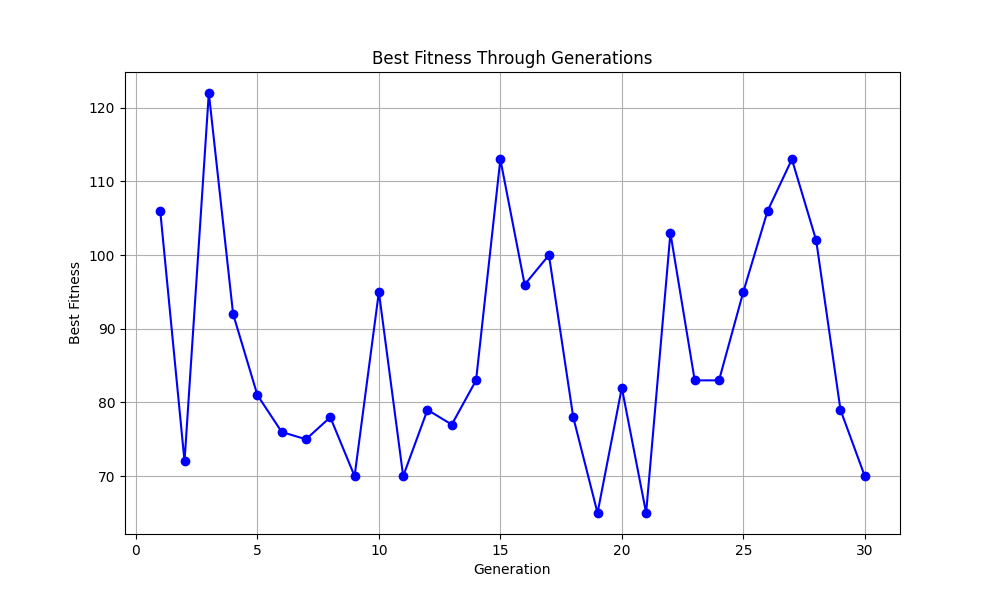
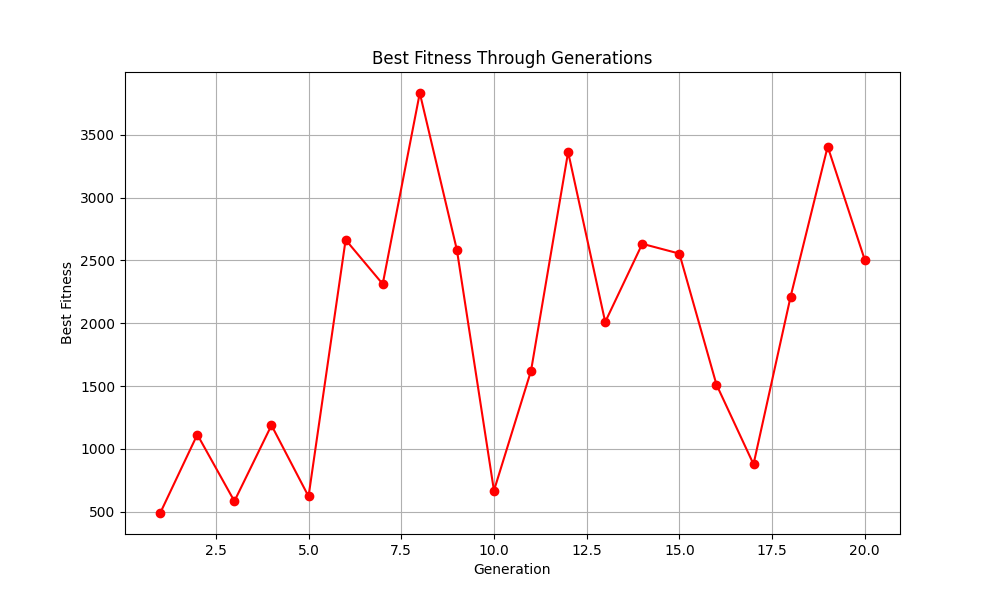
za sad eadi hahaha

diff --git a/game/main.py b/game/main.py
@@ -2,6 +2,7 @@ import random
 from copy import deepcopy
 import numpy as np
 
+
 class Individual:
     def __init__(self, genome_size):
         self.code = [random.uniform(0, 1) for _ in range(genome_size)]
@@ -9,13 +10,14 @@ class Individual:
 
     def calcFit(self, simulate_game):
         self.fitness = simulate_game(self.code)
+        return self.fitness
 
     def __lt__(self, other):
         return self.fitness < other.fitness
 
 
 def selection(population):
-    TOURNAMENT_SIZE = 10
+    TOURNAMENT_SIZE = 5
     best = None
     for _ in range(TOURNAMENT_SIZE):
         candidate = random.choice(population)
@@ -40,7 +42,6 @@ def mutation(individual, mutation_rate=0.1):
             individual.code[i] = max(0, min(1, individual.code[i]))
 
 
-# Dummy funkcija koja simulira igru i vraća rezultat na osnovu težinskih faktora
 def simulate_game(alpha):
     figures = [
         [[1, 0, 0], [1, 1, 1]],
@@ -51,44 +52,77 @@ def simulate_game(alpha):
         [[1, 1, 0], [0, 1, 1]],
         [[1, 1, 1, 1]],
     ]
-
     x = 10
     y = 20
+
     table = [[0 for _ in range(x)] for _ in range(y)]
     SCORE = 0
 
     while True:
-        next_block = random.choice(figures)
-        block_rotations = [next_block]
+        next_block = random.choice(figures)  # Izbor nasumičnog bloka
+        check = 0
 
-        for _ in range(3):
-            block_rotations.append(np.rot90(block_rotations[-1]))  # dodavanje rotacija
-
-        best_fitness = float('inf')
-        best_field = None
-        for rotation in block_rotations:
-            if can_place_next_block(table, rotation):
-                field_variations = find_all_field_variations_for_block(table, rotation)
-                for fld in field_variations:
-                    ft = calculate_fitness(fld, alpha)
-                    if ft < best_fitness:
-                        best_fitness = ft
-                        best_field = fld
-
-        if best_field is None:
+        if can_place_next_block(table, next_block):
+            field_variations1 = find_all_field_variations_for_block(table, next_block)
+            check = 1
+        if can_place_next_block(table, np.rot90(next_block)):
+            field_variations2 = find_all_field_variations_for_block(table, np.rot90(next_block))
+            check = 1
+        if can_place_next_block(table, np.rot90(np.rot90(next_block))):
+            field_variations3 = find_all_field_variations_for_block(table, np.rot90(np.rot90(next_block)))
+            check = 1
+        if can_place_next_block(table, np.rot90(np.rot90(np.rot90(next_block)))):
+            field_variations4 = find_all_field_variations_for_block(table, np.rot90(np.rot90(np.rot90(next_block))))
+            check = 1
+        if check == 0:
             break
+        else:
+            best_fitness = float('inf')
+            best_field = None
+            for fld in field_variations1:
+                ft = calculate_fitness(fld, alpha)
+                if ft < best_fitness:
+                    best_field = fld
+                    best_fitness = ft
+            table = best_field
 
-        table = best_field
+            for fld in field_variations2:
+                ft = calculate_fitness(fld, alpha)
+                if ft < best_fitness:
+                    best_field = fld
+                    best_fitness = ft
+            table = best_field
 
-        # Brisanje popunjenih linija
-        for i in range(y):
-            if all(table[i]):
-                SCORE += 2  # bonus za popunjenu liniju
-                for m in range(i, 0, -1):
-                    table[m] = table[m - 1]
-                table[0] = [0] * x
+            for fld in field_variations3:
+                ft = calculate_fitness(fld, alpha)
+                if ft < best_fitness:
+                    best_field = fld
+                    best_fitness = ft
+            table = best_field
 
+            for fld in field_variations4:
+                ft = calculate_fitness(fld, alpha)
+                if ft < best_fitness:
+                    best_field = fld
+                    best_fitness = ft
+            table = best_field
+
+            for i in range(y):
+                lineFull = True
+                for j in range(x):
+                    if table[i][j] == 0:
+                        lineFull = False
+                if lineFull:
+                    SCORE += 2
+                    for m in range(i, 0, -1):
+                        for k in range(x):
+                            table[m][k] = table[m - 1][k]
+                    for m in range(x):
+                        table[0][m] = 0
+
+    # print(np.array(table), '\n')
     return SCORE
+
 
 def is_valid_placement(field, block, row, col):
     """Check if placing the block at (row, col) is valid."""
@@ -212,71 +246,55 @@ def calculate_fitness(field, alpha):
     fitness = empty_spaces * alpha[0] + max_height * alpha[1] + roughness * alpha[2] - lineFull * alpha[3]
     return fitness
 
-
-from multiprocessing import Pool
 import json
 
-from multiprocessing import Pool
+GENS = 20
+POPULATION_SIZE = 10
+GENOME_SIZE = 4
 
-def fitness_wrapper(individual):
-    """Helper funkcija za izracunavanje fitness vrednosti"""
+population = [Individual(GENOME_SIZE) for _ in range(POPULATION_SIZE)]
+
+for individual in population:
     individual.calcFit(simulate_game)
-    return individual.fitness
 
-def calculate_population_fitness(population):
-    with Pool(processes=4) as pool:
-        fitness_values = pool.map(fitness_wrapper, population)
-    return fitness_values
+results = {
+    "generations": [],
+    "best_fitness": []
+}
 
-# main
-if __name__ == "__main__":
-    results = {
-        "generations": [],
-        "best_fitness": []
-    }
+for generation in range(GENS):
+    population.sort(reverse=True)
+    new_population = []
+    ELITISM_COUNT = 1
+    new_population.extend(population[:ELITISM_COUNT])
 
-    GENS = 20
-    POPULATION_SIZE = 10
-    GENOME_SIZE = 4
+    while len(new_population) < POPULATION_SIZE:
+        parent1 = selection(population)
+        parent2 = selection(population)
+        child1, child2 = crossover(parent1, parent2)
+        mutation(child1, mutation_rate=0.1)
+        mutation(child2, mutation_rate=0.1)
+        child1.calcFit(simulate_game)
+        child2.calcFit(simulate_game)
+        new_population.append(child1)
+        if len(new_population) < POPULATION_SIZE:
+            new_population.append(child2)
 
-    population = [Individual(GENOME_SIZE) for _ in range(POPULATION_SIZE)]
+    population = new_population
 
-    for generation in range(GENS):
-
-        # paralelno izracunavanje fitness vrednosti
-        fitness_values = calculate_population_fitness(population)
-        for i, fitness in enumerate(fitness_values):
-            population[i].fitness = fitness
-
-        population.sort(reverse=True)
-        new_population = []
-
-        ELITISM_COUNT = 1
-        new_population.extend(population[:ELITISM_COUNT])
-
-        while len(new_population) < POPULATION_SIZE:
-            parent1 = selection(population)
-            parent2 = selection(population)
-            child1, child2 = crossover(parent1, parent2)
-            mutation(child1, mutation_rate=0.2)
-            mutation(child2, mutation_rate=0.2)
-            new_population.append(child1)
-            if len(new_population) < POPULATION_SIZE:
-                new_population.append(child2)
-
-        population = new_population
-
-        for individual in population:
-            individual.calcFit(simulate_game)
-
-        best_individual = max(population, key=lambda ind: ind.fitness)
-        print(f"Generation {generation + 1}: Best fitness = {best_individual.fitness}")
-
-        results["generations"].append(generation + 1)
-        results["best_fitness"].append(best_individual.fitness)
-
-    with open("results.json", "w") as f:
-        json.dump(results, f)
+    for i in range(ELITISM_COUNT):
+        population[i].calcFit(simulate_game)
 
     best_individual = max(population, key=lambda ind: ind.fitness)
-    print("Best genome:", best_individual.code)
+    print(f"Generation {generation + 1}: Best fitness = {best_individual.fitness}")
+
+    # Save results for visualization
+    results["generations"].append(generation + 1)
+    results["best_fitness"].append(best_individual.fitness)
+
+# Save results to JSON file
+with open("results.json", "w") as f:
+    json.dump(results, f, indent=4)
+
+best_individual = max(population, key=lambda ind: ind.fitness)
+print("Best genome:", best_individual.code)

diff --git a/game/visualize.py b/game/visualize.py
@@ -9,7 +9,7 @@ def visualize_results(results_file):
     best_fitness = data["best_fitness"]
 
     plt.figure(figsize=(10, 6))
-    plt.plot(generations, best_fitness, marker='o', linestyle='-', color='b')
+    plt.plot(generations, best_fitness, marker='o', linestyle='-', color='r')
     plt.title("Best Fitness Through Generations")
     plt.xlabel("Generation")
     plt.ylabel("Best Fitness")
